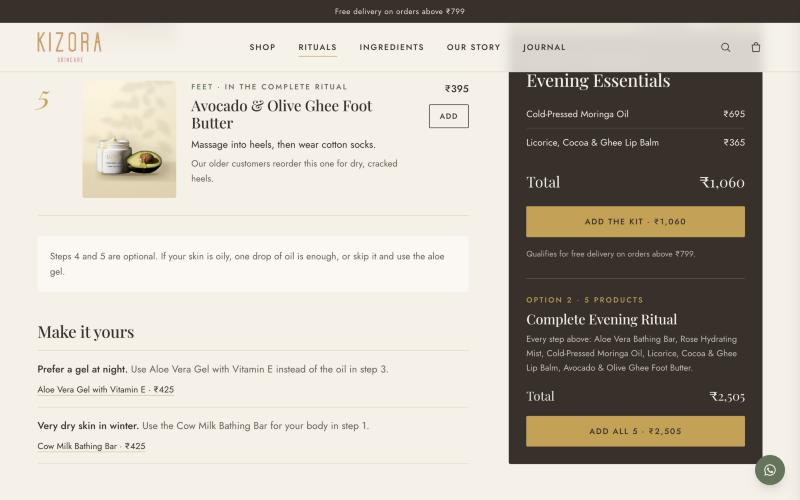
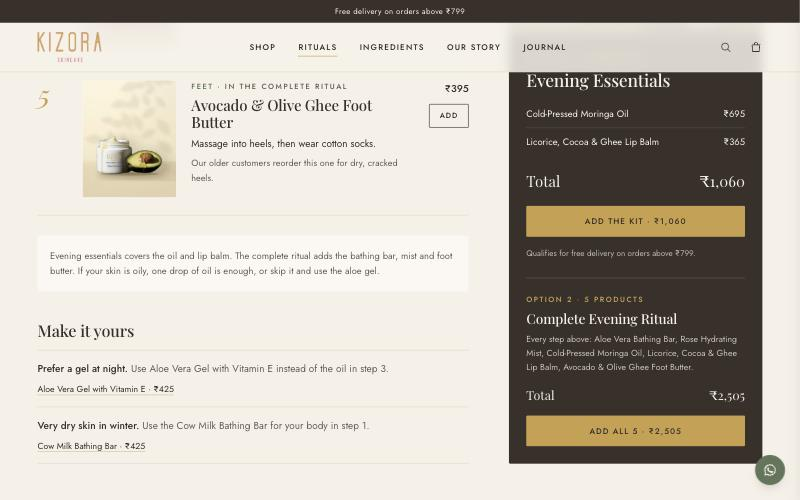
Add review change log, final AFTER screenshots and accessibility fixes
Contrast for sage and gold text, closed cart drawer and mobile menu made inert, review IDs no longer wrap on /prototype-notes/.

Claude-Session: https://claude.ai/code/session_01PjgiCj2RAiS4aSZhM332Nm

diff --git a/src/app/prototype-notes/page.tsx b/src/app/prototype-notes/page.tsx
@@ -25,7 +25,7 @@ export default function Notes() {
           <thead><tr className="bg-ink text-[12px] uppercase tracking-[0.12em] text-cream"><th className="p-3">ID</th><th className="p-3">Priority</th><th className="p-3">What changed</th><th className="p-3">See it</th></tr></thead>
           <tbody>{reviewLog.map((c, i) => (
             <tr key={c.id} className={`border-b border-line align-top ${i % 2 ? 'bg-paper' : ''}`}>
-              <td className="p-3 font-medium">{c.id}</td><td className="p-3">{c.pri}</td><td className="p-3">{c.change}</td>
+              <td className="whitespace-nowrap p-3 font-medium">{c.id}</td><td className="p-3">{c.pri}</td><td className="p-3">{c.change}</td>
               <td className="p-3"><Link href={c.url} className="link whitespace-nowrap">Open →</Link></td>
             </tr>))}
           </tbody>
@@ -38,7 +38,7 @@ export default function Notes() {
           <thead><tr className="bg-ink text-[12px] uppercase tracking-[0.12em] text-cream"><th className="p-3">ID</th><th className="p-3">Area</th><th className="p-3">Live site today</th><th className="p-3">In this prototype</th><th className="p-3">See it</th></tr></thead>
           <tbody>{changelog.map((c, i) => (
             <tr key={c.id} className={`border-b border-line align-top ${i % 2 ? 'bg-paper' : ''}`}>
-              <td className="p-3 font-medium">{c.id}</td><td className="p-3">{c.area}</td><td className="p-3 text-ink2">{c.before}</td><td className="p-3">{c.after}</td>
+              <td className="whitespace-nowrap p-3 font-medium">{c.id}</td><td className="p-3">{c.area}</td><td className="p-3 text-ink2">{c.before}</td><td className="p-3">{c.after}</td>
               <td className="p-3"><Link href={c.link} className="link whitespace-nowrap">Open →</Link></td>
             </tr>))}
           </tbody>

diff --git a/src/components/cart.tsx b/src/components/cart.tsx
@@ -97,7 +97,7 @@ function CartDrawer() {
     window.addEventListener('keydown', onKey); return () => window.removeEventListener('keydown', onKey);
   }, [setOpen]);
   return (
-    <div className={`fixed inset-0 z-[60] ${open ? '' : 'pointer-events-none'}`} aria-hidden={!open}>
+    <div className={`fixed inset-0 z-[60] ${open ? '' : 'pointer-events-none'}`} aria-hidden={!open} {...(open ? {} : { inert: '' as unknown as boolean })}>
       <div className={`absolute inset-0 bg-ink/30 transition-opacity ${open ? 'opacity-100' : 'opacity-0'}`} onClick={() => setOpen(false)} />
       <aside role="dialog" aria-label="Cart" className={`absolute right-0 top-0 flex h-full w-full max-w-[420px] flex-col bg-cream shadow-xl transition-transform duration-300 ${open ? 'translate-x-0' : 'translate-x-full'}`}>
         <div className="flex items-center justify-between border-b border-line px-6 py-5">

diff --git a/src/components/chrome.tsx b/src/components/chrome.tsx
@@ -109,7 +109,7 @@ export function Header() {
         </div>
       )}
       {/* mobile menu */}
-      <div className={`fixed inset-0 z-[70] md:hidden ${menu ? '' : 'pointer-events-none'}`} aria-hidden={!menu}>
+      <div className={`fixed inset-0 z-[70] md:hidden ${menu ? '' : 'pointer-events-none'}`} aria-hidden={!menu} {...(menu ? {} : { inert: '' as unknown as boolean })}>
         <div className={`absolute inset-0 bg-ink/30 transition-opacity ${menu ? 'opacity-100' : 'opacity-0'}`} onClick={() => setMenu(false)} />
         <nav aria-label="Mobile" className={`absolute left-0 top-0 h-full w-[86%] max-w-[360px] overflow-y-auto bg-cream px-6 pb-10 pt-5 transition-transform duration-300 ${menu ? 'translate-x-0' : '-translate-x-full'}`}>
           <div className="mb-6 flex items-center justify-between">

diff --git a/src/app/page.tsx b/src/app/page.tsx
@@ -71,7 +71,7 @@ export default function Home() {
                 <ol className="mt-5 space-y-1.5 text-[15px]">
                   {r.steps.filter(s => s.slug).map(s => (
                     <li key={s.n} className="flex gap-3"><span className="w-5 font-serif italic text-gold">{s.n}</span>
-                      <span>{s.title}{!k.components!.includes(s.slug!) && <span className="opacity-60"> · optional</span>}</span></li>
+                      <span>{s.title}{!k.components!.includes(s.slug!) && <span className="opacity-80"> · optional</span>}</span></li>
                   ))}
                 </ol>
                 <div className={`mt-6 border-t pt-5 text-[14px] ${r.slug === 'evening' ? 'border-cream/20' : 'border-ink/15'}`}>

diff --git a/tailwind.config.ts b/tailwind.config.ts
@@ -10,8 +10,8 @@ const config: Config = {
         ink: '#3A2F2A',
         ink2: '#6B5D55',
         line: '#E3D9C8',
-        sage: { DEFAULT: '#879E81', deep: '#5F7559', mist: '#E7EDE3' },
-        gold: { DEFAULT: '#C9A04A', deep: '#A47E2F' },
+        sage: { DEFAULT: '#879E81', deep: '#4F6449', mist: '#E7EDE3' },
+        gold: { DEFAULT: '#D2AA55', deep: '#A47E2F' },
         butter: '#EFE3B5',
         blush: '#EBDAD3',
         clay: '#D9C3A8',

diff --git a/docs/REVIEW-CHANGELOG.md b/docs/REVIEW-CHANGELOG.md
@@ -1,0 +1,87 @@
+# Critical review changes: KZ-01 to KZ-18
+
+Review document: "Kizora Website Critical Review, Claude Implementation" (2 November 2026).
+Preview: https://kizora-six.vercel.app/ (noindex, prototype only, no orders processed).
+
+Commits on `main`:
+
+- `065c6a7` Apply critical review fixes KZ-01 to KZ-18
+- `ab8c8f2` Review follow-ups found during AFTER checks
+- the commit that adds this file (contrast, menu and drawer accessibility, notes table, final screenshots)
+
+BEFORE screenshots were taken on the deployed site before any change. AFTER screenshots were taken on the same deployed site after Vercel rebuilt from GitHub. All are in `docs/review-screenshots/`. Desktop shots are 1280 x 800 (saved at 800 x 500). Mobile shots are 375 x 812 (saved at 750 x 1624).
+
+## Change log
+
+| ID | Files changed | URL | Exact change | Before | After | QA result |
+|---|---|---|---|---|---|---|
+| KZ-01 | `src/app/page.tsx` | `/` | Ritual subheading now reads exactly: "A little care to begin your day, a little calm to end it. Simple rituals, thoughtfully made by us." | S01-home-rituals-before.jpg | S01-home-rituals-after.jpg | Pass. Text checked on the live preview. |
+| KZ-02 | `src/data/collections.ts` | `/collections/face-gels/` | Intro now reads exactly: "Three refreshing aloe gels, each made with 99% aloe leaf gel. Lightweight, cooling and quick to absorb, they're perfect for both face and body." Products and table unchanged. | S02-face-gels-top-before.jpg | S02-face-gels-top-after.jpg | Pass. |
+| KZ-03 | `src/data/site.ts` | `/rituals/morning/` | Step 4 sunscreen card removed. One note only: "Use your usual gentle face wash before the ritual, and finish with a broad-spectrum sunscreen. These are not included in the kit." | S03-morning-sunscreen-kit-before.jpg | S03-morning-sunscreen-kit-after.jpg | Pass. Only one sunscreen mention on the page. |
+| KZ-04 | `src/components/ritual-view.tsx`, `src/app/page.tsx`, `src/data/products.ts` | `/rituals/morning/`, `/` | Kit shown as "Morning Ritual Kit · 2 essentials: Rose Hydrating Mist + Pure Aloe Vera Gel. Add a lip balm separately if you like." "Includes mist + gel" sits by the CTA on the ritual page and the homepage card. Lip balm step marked "optional, not in the kit". Kit box lists the two items and total. | S04a-morning-hero-before.jpg, S04m-mobile-morning-kit-before.jpg | S04a-morning-hero-after.jpg, S04b-home-ritual-cards-after.jpg, S04m-mobile-morning-kit-after.jpg | Pass. Add-the-kit puts ₹950 in the demo cart (scripted test). |
+| KZ-05 | `src/components/ritual-view.tsx`, `src/data/products.ts`, `src/data/site.ts`, `src/app/page.tsx` | `/rituals/evening/` | Two choices: "Evening essentials · 2 products · ₹1,060" and "Complete evening ritual · 5 products · ₹2,505", in the hero, on the homepage card and side by side in the kit box. Steps are tagged "In evening essentials" or "in the complete ritual". The note under the steps now explains the two options. | S05-evening-kit-before.jpg | S05a-evening-hero-after.jpg, S05-evening-kit-after.jpg | Pass. Totals come from product data. |
+| KZ-06 | `src/app/products/[slug]/page.tsx`, `src/app/prototype-notes/page.tsx`, `src/components/chrome.tsx` | `/products/pure-aloe-vera-gel/` | "To confirm" lists removed from every product page, even in review mode. Open items are listed per product on `/prototype-notes/`. Review mode is switched on from that page only. | S06-pdp-aloe-internal-notes-before.jpg (review mode on) | S06-pdp-aloe-internal-notes-after.jpg (review mode on) | Pass. Scripted check: no "To confirm" text on product pages. |
+| KZ-07 | `src/app/page.tsx`, `src/app/layout.tsx`, `src/data/products.ts`, `src/app/products/[slug]/page.tsx` | `/`, `/products/kuppaimeni-soap/` | "Full ingredient lists" replaced with "Ingredients explained clearly". The four products without a full list now show the heading "Key ingredients". | S07a-home-ingredient-claim-before.jpg, S07b-kuppaimeni-ingredients-before.jpg | S07a-home-ingredient-claim-after.jpg, S07b-kuppaimeni-ingredients-after.jpg | Pass. No "full ingredient" text in the built site. |
+| KZ-08 | `src/app/collections/[slug]/page.tsx` | all `/collections/*/` | Redirect lines removed. The redirect map stays in `docs/SEO-AEO.md`. | S08-face-gels-redirect-before.jpg | S08-face-gels-redirect-after.jpg | Pass. |
+| KZ-09 | `src/data/ingredients.ts`, `src/app/ingredients/[slug]/page.tsx`, `src/app/ingredients/page.tsx`, `src/components/ingredient-browser.tsx`, `src/components/chrome.tsx` | `/ingredients/aloe-vera/`, `/ingredients/desi-cow-ghee/` | Unverified INCI names replaced by the names on our labels. "Confirm" notes and "No single review cited" removed. Cautions written for customers (for example "It is a light hydrator, not a treatment for burns or acne"). Repeated disclaimers replaced by one footer line: "Information on this site is general guidance, not medical advice." | S09a-ingredient-aloe-before.jpg, S09b-ingredient-ghee-before.jpg | S09a-ingredient-aloe-after.jpg, S09b-ingredient-ghee-after.jpg, S09c-footer-disclaimer-after.jpg | Pass. |
+| KZ-10 | `src/app/about/page.tsx`, `src/app/contact/page.tsx`, `src/app/journal/*`, `src/data/products.ts`, `src/app/page.tsx` | `/about/`, `/contact/` | Photo placeholders, "Real photo" labels, the curing-rack caption, Draft labels, "Tin (size to confirm)" and the Hours row removed. About now uses a real product photo with a plain caption. | S10-about-placeholders-before.jpg | S10-about-placeholders-after.jpg | Pass. |
+| KZ-11 | `src/data/products.ts`, `src/data/site.ts`, `src/app/how-its-made/page.tsx` | `/products/aloe-vera-bathing-bar/` | "The product page says" language removed. Aloe bar: "A gentle bathing bar for face and body, made by hand with aloe vera extract, coconut and olive oils. It is step one of our evening ritual." | S11-aloe-bar-pdp-before.jpg | S11-aloe-bar-pdp-after.jpg | Pass. |
+| KZ-12 | `src/components/chrome.tsx`, `src/components/cart-view.tsx`, `src/data/site.ts`, `src/app/shipping/page.tsx` | `/cart/`, every page | Banner: "Prototype preview · Orders are not being processed." COD, payment methods and dispatch times removed. Empty cart shows Delivery "—". Small orders show "Calculated at checkout". | S12a-banner-before.jpg, S12b-cart-empty-before.jpg | S12a-banner-after.jpg, S12b-cart-empty-after.jpg | Pass. Scripted cart test: empty "—", ₹325 order "Calculated at checkout", ₹950 kit "Free". |
+| KZ-13 | `src/app/page.tsx`, `src/app/products/[slug]/page.tsx` | `/`, product pages | Newsletter section and its "[Sign-up offer to be decided]" text removed. "Write a review" button removed. Reviews block reads "No reviews yet. Questions before choosing? Speak with our team on WhatsApp." | S13a-newsletter-before.jpg, S13b-pdp-reviews-before.jpg | S13a-newsletter-after.jpg, S13b-pdp-reviews-after.jpg | Pass. |
+| KZ-14 | `src/components/product-bits.tsx` | product pages | Photography kept. Gallery thumbnails now load straight away (they showed blank in the review). No new images made. | n/a | S07b-kuppaimeni-ingredients-after.jpg (thumbnails visible) | Pass for thumbnails. The optional photo touch-ups were not done. |
+| KZ-15 | `src/app/page.tsx` | `/` | Unlinked Google rating removed. Replaced with "Questions before choosing? Speak with our team on WhatsApp." The founder-attributed foot butter line stays. | S14-home-social-proof-before.jpg | S14-home-social-proof-after.jpg | Pass. |
+| KZ-16 | `src/data/products.ts`, `src/app/collections/[slug]/page.tsx`, `src/components/ritual-view.tsx` | `/collections/face-gels/`, rituals | The gel table, kit totals, ritual prices and structured data all read from `src/data/products.ts`. No generated technical names are shown to customers. | n/a | S08-face-gels-redirect-after.jpg | Pass. The table matches product page prices. |
+| KZ-17 | `src/data/site.ts`, `src/app/journal/page.tsx`, `src/app/journal/[slug]/page.tsx` | `/journal/why-our-soaps-take-a-month/` | Draft labels removed. The saponification sentence was replaced with: "As the bars cure, excess water gradually evaporates, helping them become firmer and last longer in use." | S15a-journal-header-before.jpg, S15b-journal-curing-before.jpg | S15a-journal-header-after.jpg, S15b-journal-curing-after.jpg | Pass. |
+| KZ-18 | `tailwind.config.ts`, `src/components/cart.tsx`, `src/components/chrome.tsx`, `src/app/contact/page.tsx`, `src/app/prototype-notes/page.tsx` | all | QA below. Fixes from QA: Contact page sideways scroll on phones; colour contrast (sage and gold); the closed cart drawer and mobile menu are no longer reachable by keyboard; a review-change table was added to `/prototype-notes/`. | S16a-mobile-home-top-before.jpg, S01m-mobile-home-rituals-before.jpg | S16a-mobile-home-top-after.jpg, S01m-mobile-home-rituals-after.jpg, S18-prototype-notes-after.jpg | See QA below. |
+
+## QA that was actually run
+
+- **Build:** `npm run build` passes, with 69 static pages. `tsc --noEmit` is clean.
+- **Crawl** (local build, Playwright): all 62 HTML routes return 200, each has one H1, no broken images and no console errors.
+- **Viewports** 375, 390, 768 and 1440: 15 key routes have no sideways scroll, return status 200 and carry the robots noindex tag. Contact overflowed on phones and was fixed.
+- **Text search** of the built HTML, excluding `/prototype-notes/`, found none of these: "to confirm", "draft", "photo to come", "Real photo", "Live-site redirect", "product page says", "describes it", "to be decided", "full ingredient", "Cash on delivery", "COD", "UPI", "replace this", "No single review", "(confirm", "Write a review", "Hours", "Google rating", "Do not describe", "Do not claim".
+- **Demo cart:**
+  - Kit add works.
+  - The drawer "View cart" link works.
+  - Delivery shows "—" when the cart is empty, "Calculated at checkout" under ₹799 and "Free" at or above ₹799.
+- **Review mode:**
+  - It turns on from `/prototype-notes/` and carries across pages in the same tab.
+  - Product pages show highlights only, with no internal lists.
+- **Lighthouse 12.2.1** (local static server without compression, so treat performance as a rough guide):
+
+  | Page | Run | Performance | Accessibility | Best practices | SEO |
+  |---|---|---|---|---|---|
+  | `/` | mobile | 69 | 100 | 100 | 69 |
+  | `/` | desktop | 98 | 100 | 100 | 69 |
+  | `/rituals/morning/` | mobile | 80 | 100 | 100 | 69 |
+  | `/rituals/morning/` | desktop | 98 | 100 | 100 | 69 |
+  | `/products/pure-aloe-vera-gel/` | mobile | 80 | 100 | 100 | 69 |
+  | `/products/pure-aloe-vera-gel/` | desktop | 97 | 100 | 100 | 69 |
+
+  SEO scores 69 only because the page is noindex on purpose ("Page is blocked from indexing"). No other SEO audit failed. Mobile performance is held back by the large hero image under simulated slow 4G. That was not changed in this round.
+
+## Not tested or not done
+
+- PageSpeed Insights on the deployed Vercel URL. All Lighthouse numbers above are from the local build.
+- The optional photo touch-ups under KZ-14.
+- Real devices. Mobile checks used browser emulation only.
+
+## Founder confirmations still pending
+
+These were removed from customer pages, or kept and highlighted in review mode, until confirmed:
+
+1. Free delivery threshold of ₹799, and that kits qualify.
+2. Delivery charge for orders under ₹799.
+3. Cash on delivery, payment methods and dispatch time. All removed until confirmed.
+4. Order cancellation before dispatch, as stated on Returns.
+5. Customer-facing name "Evening Essentials" for the two-product evening kit.
+6. Face use of the Aloe Vera Bathing Bar. The live product page says face and body.
+7. Full ingredient lists for Kuppaimeni, Hibiscus & Rose, Beetroot balm and Licorice balm. These are shown as "Key ingredients" for now.
+8. Lip balm tin size.
+9. The Google rating and a link to the real Google profile, before any rating is shown.
+10. A working newsletter opt-in (with consent and unsubscribe) and a review collection flow, before either is shown.
+11. The founder-reported foot butter line, until verified reviews exist.
+12. The 21 to 28 day cure time for each natural soap.
+13. Real photos of the unit and the makers.
+
+The full per-product list is on `/prototype-notes/`.

diff --git a/docs/CHANGELOG.md b/docs/CHANGELOG.md
@@ -2,9 +2,11 @@
 
 Each row maps to an issue ID in the *Kizora Website Transformation Report* (1 November 2026).
 
+The second review (KZ-01 to KZ-18, 2 November 2026) is logged separately in [REVIEW-CHANGELOG.md](REVIEW-CHANGELOG.md), with before and after screenshots.
+
 | ID | Area | Live site today | In this prototype | Page |
 |---|---|---|---|---|
-| K-01 | Trust | FAQ full of theme placeholder text; checkout says "Debating me breeding be answered."; /blog/ shows a theme demo. | Real FAQ (/faq/), clean demo cart, Journal with three draft articles. | `/faq/` |
+| K-01 | Trust | FAQ full of theme placeholder text; checkout says "Debating me breeding be answered."; /blog/ shows a theme demo. | Real FAQ (/faq/), clean demo cart, Journal with three articles. | `/faq/` |
 | K-02 | Policy | Returns policy contains a drafting note. | Returns summary written plainly; full policy to be legally reviewed. | `/returns/` |
 | K-03 | Claims | "Cruelty-Free & Vegan" badge on the ghee foot butter and cow milk bar. | Clear "Contains" line on every product with milk, ghee or beeswax. | `/products/cow-milk-bathing-bar/` |
 | K-04 | Product facts | 30 g gel FAQ mentions rose oil; Vitamin E gallery shows the rose-oil carton; foot butter "50ml"; typos. | Facts corrected; one product template so details cannot drift. | `/products/pure-aloe-vera-gel/` |
